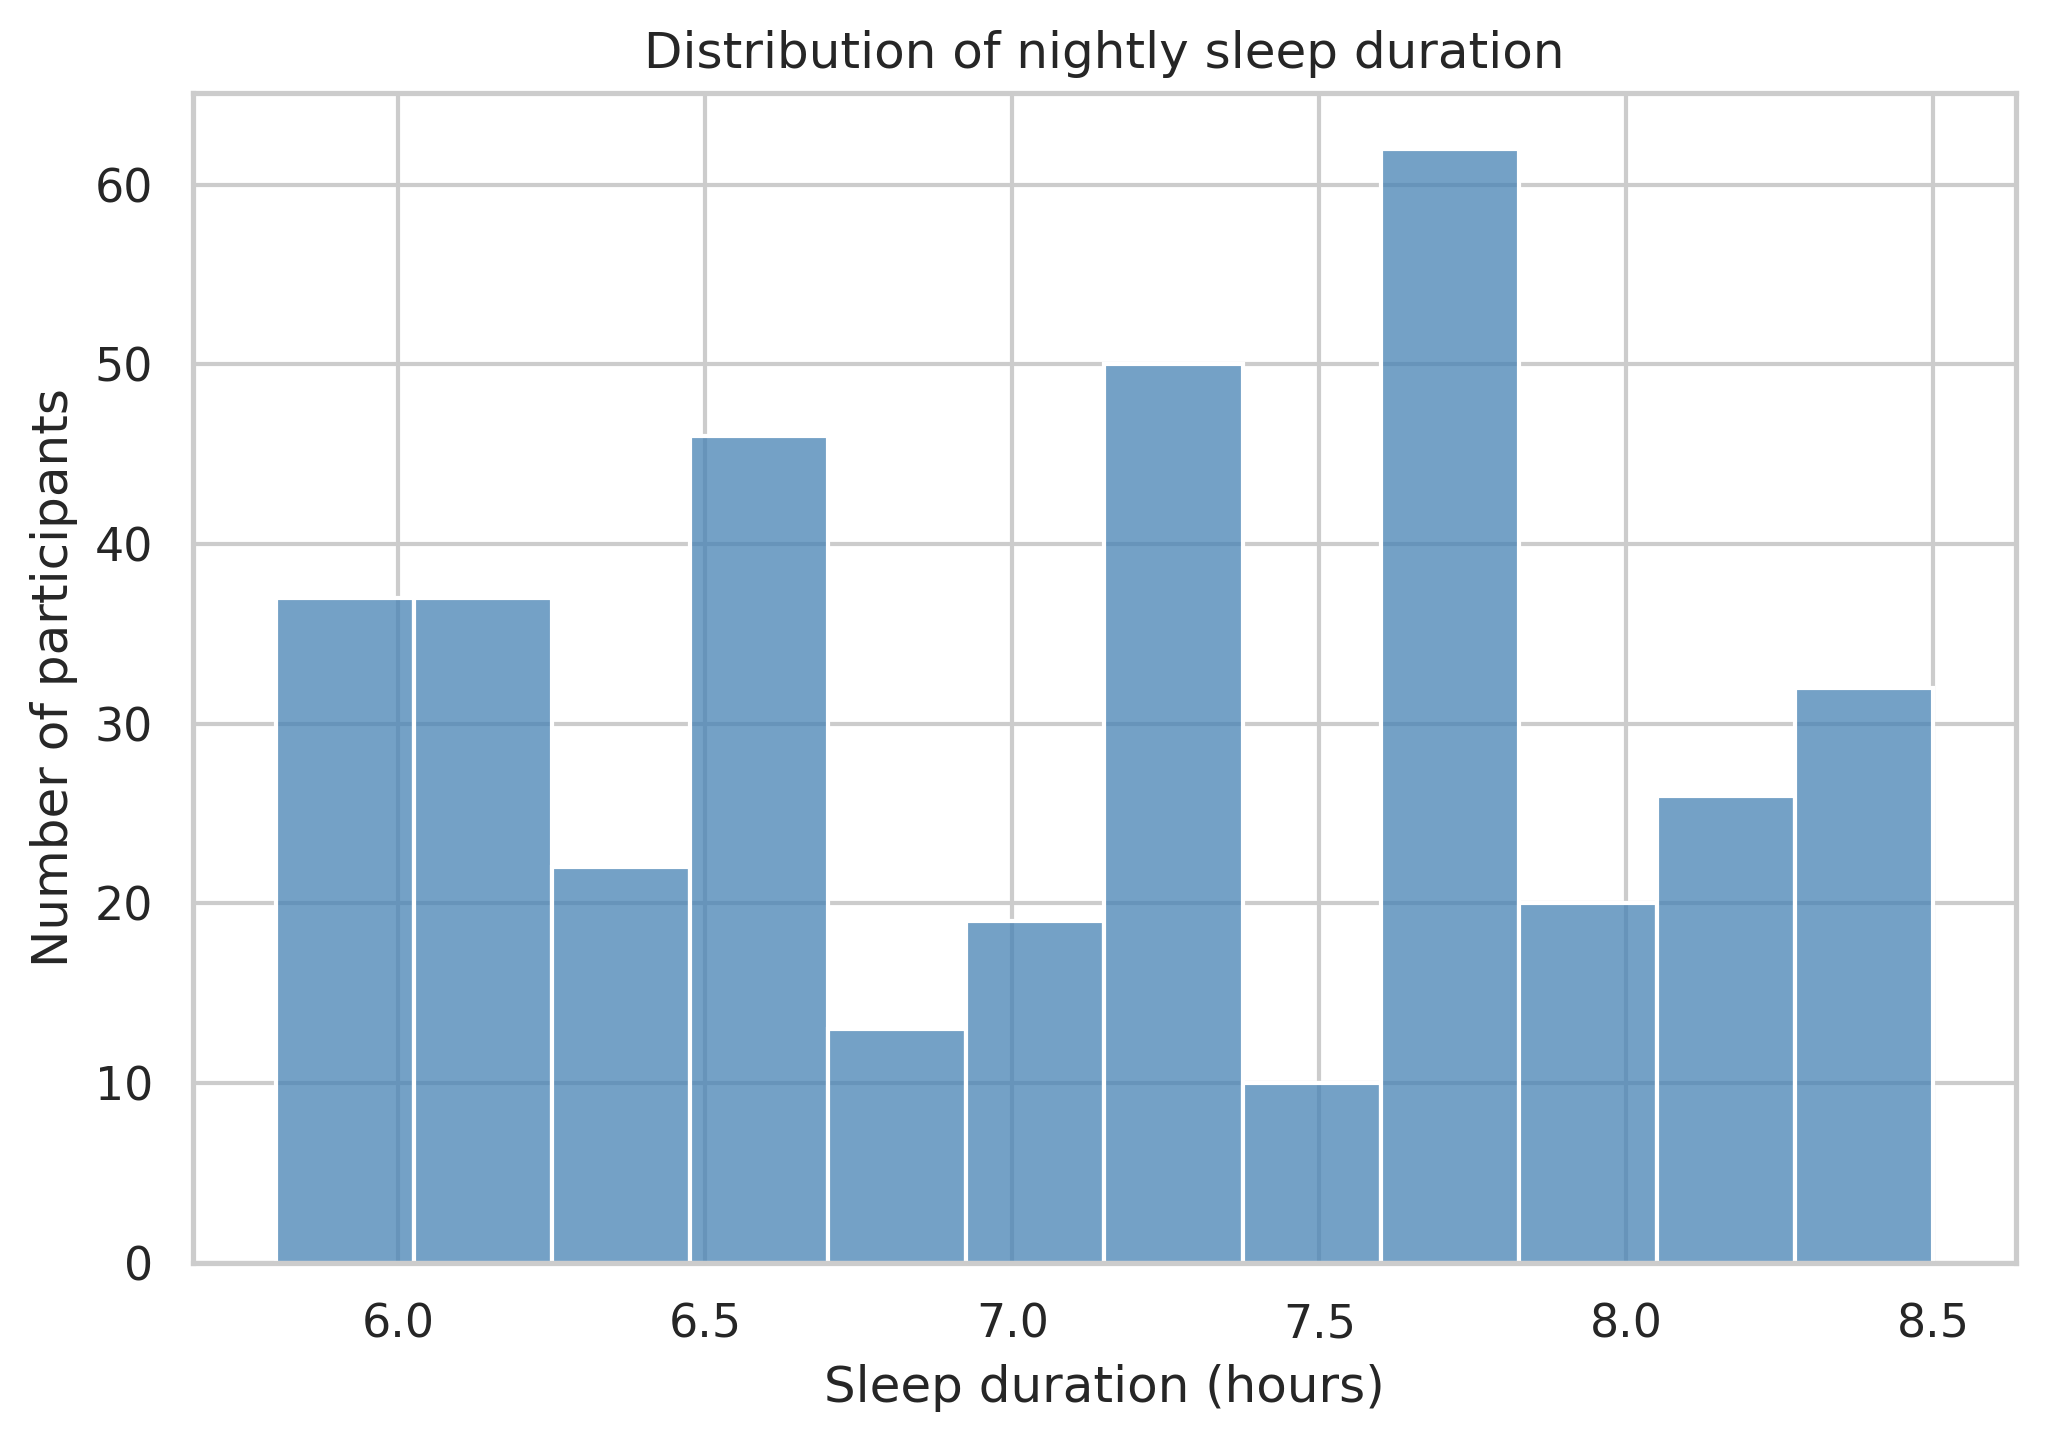
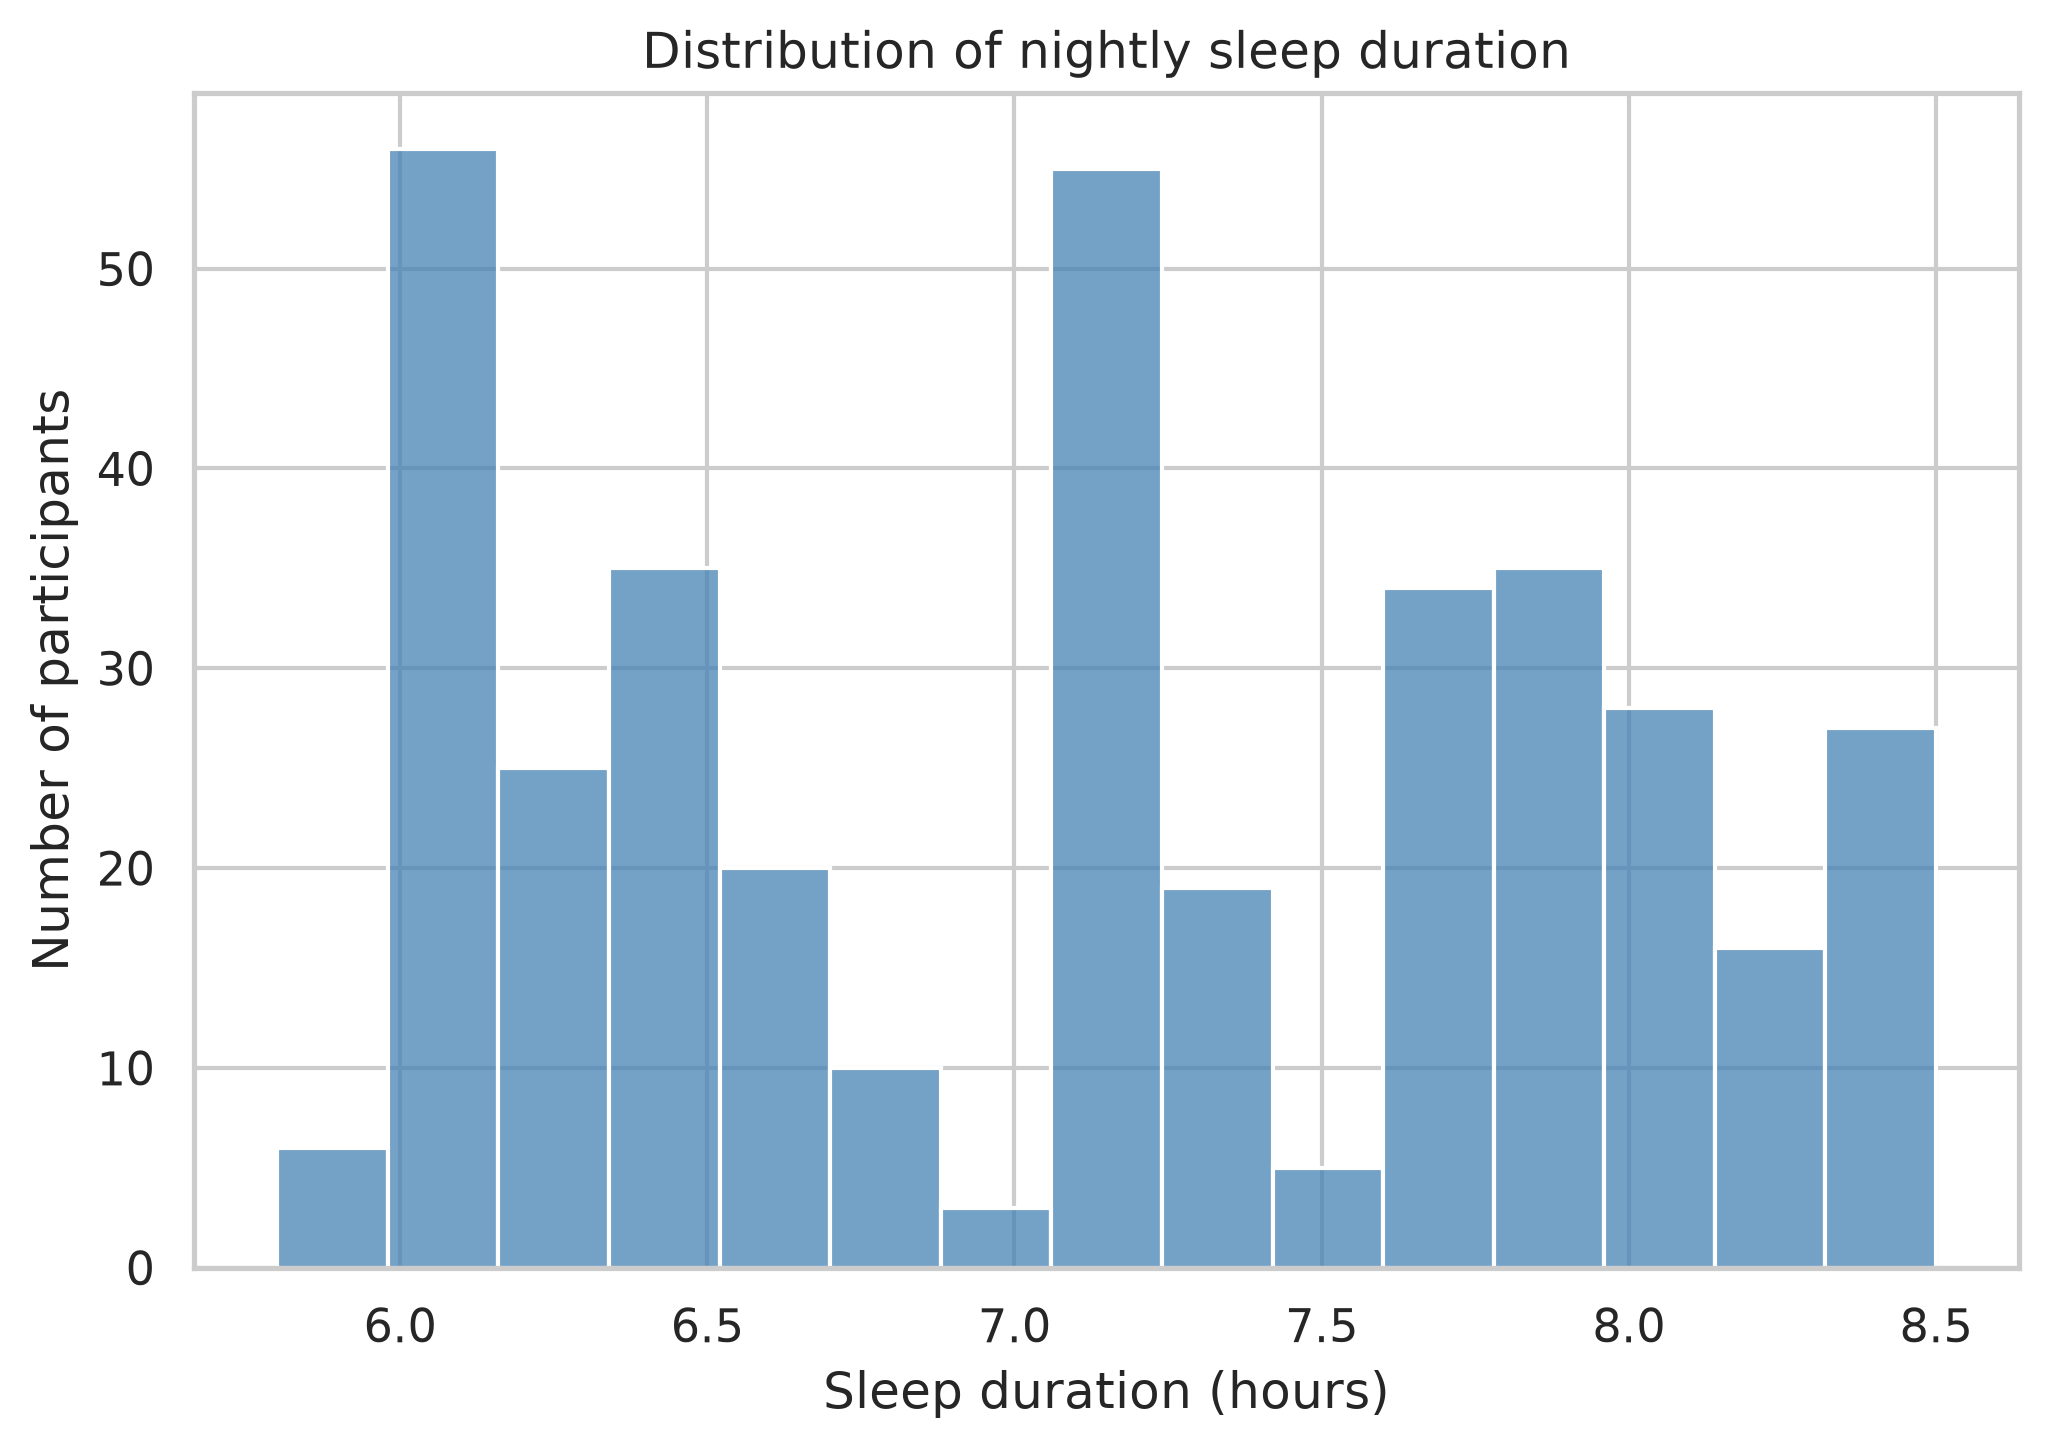
updated

diff --git a/src/sleep_utils.py b/src/sleep_utils.py
@@ -1,10 +1,10 @@
-"""Reusable data preparation and summary functions for STA 556 Homework 2."""
+"""Reusable data preparation and summary functions"""
 from pathlib import Path
 import pandas as pd
 
 
 def load_data(path: str | Path) -> pd.DataFrame:
-    """Read the supplied CSV file from a relative or absolute path."""
+    """Read the CSV file from a relative path."""
     return pd.read_csv(path)
 
 

diff --git a/README.md b/README.md
@@ -1,4 +1,4 @@
-# STA 556 Homework 2 — Sleep Health and Lifestyle
+# STA 556 Homework 2
 
 ## Purpose
 A reproducible exploratory analysis of reported sleep duration, sleep quality, and stress levels using a CSV file, modular cleaning functions, and three visualizations.
